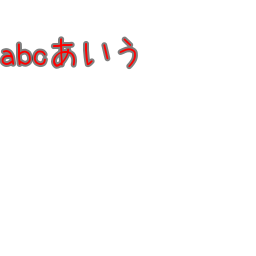
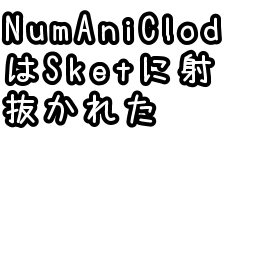
フォントツール：太字と輪郭線を出力できるよう実装、同じ文字をはじくよう変更

Changed region(s): [[0.0, 0.0312, 0.875, 0.5]]

diff --git a/Dev/FontGenerator/FontGeneratorTest/main.cpp b/Dev/FontGenerator/FontGeneratorTest/main.cpp
@@ -14,11 +14,12 @@ int main()
 	{
 		SettingForRendering setting;
 		setting.SetFontSize(32);
-		setting.SetFontColor(Color(255, 0, 0, 255));
-		setting.SetBorder(make_shared<BorderSetting>(2, Color(0, 0, 0, 128)));
+		setting.SetFontColor(Color(255, 255, 255, 255));
+		setting.SetBold(make_shared<BoldSetting>(1));
+		setting.SetBorder(make_shared<BorderSetting>(4, Color(0, 0, 0, 255)));
 
 		gen.GenerateFontFile(
-			L"C:/Windows/Fonts/azuki.ttf",
+			L"C:/Windows/Fonts/AzukiP.ttf",
 			L"test.txt",
 			L"result/test",
 			setting);

diff --git a/Dev/FontGenerator/FontGenerator/Generator.cpp b/Dev/FontGenerator/FontGenerator/Generator.cpp
@@ -53,7 +53,10 @@ namespace FontGenerator
 			achar c;
 			if (fread(&c, sizeof(achar), 1, file) == 1)
 			{
-				result.push_back(c);
+				if (find(result.begin(), result.end(), c) == result.end())
+				{
+					result.push_back(c);
+				}
 			}
 		}
 
